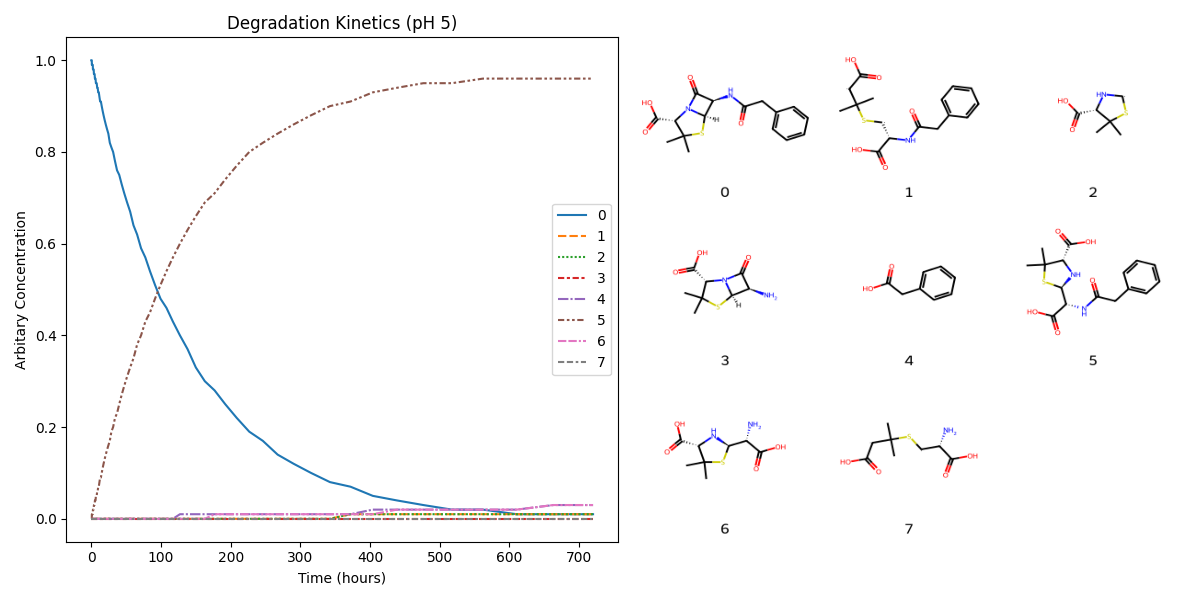
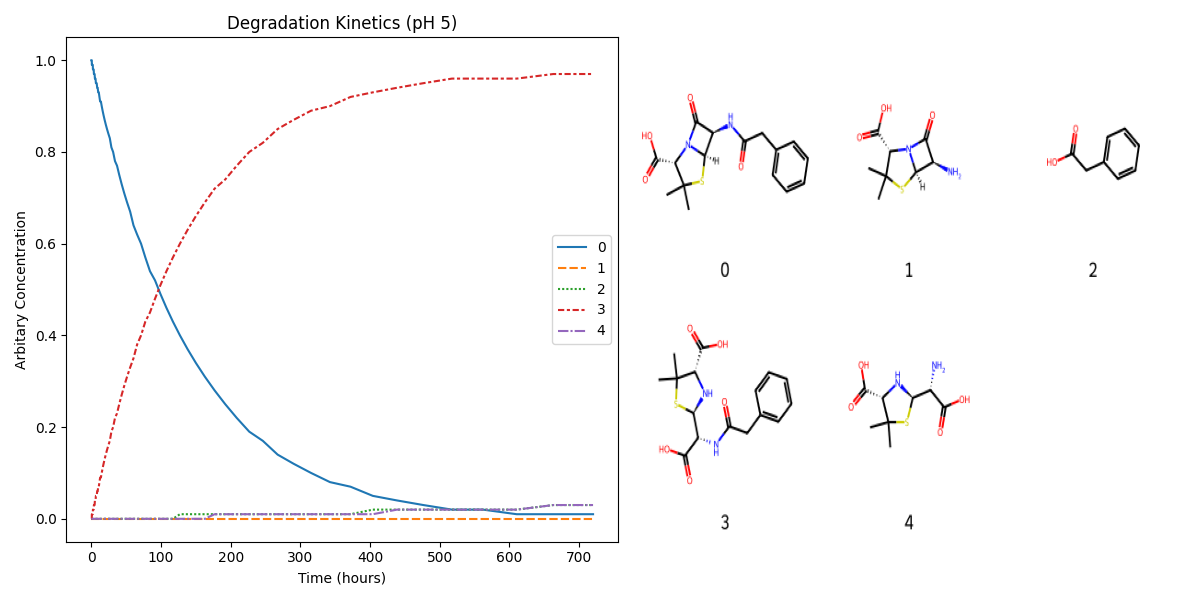
Fix amide bug and sanitisation

diff --git a/src/chem_deg/reactions/hydrolysis/misc.py b/src/chem_deg/reactions/hydrolysis/misc.py
@@ -47,13 +47,15 @@ class AmideHydrolysis(Reaction):
             # [H;C;N] attached to [#7:4] is not specified because that would require an explicit
             # H atom to be present in the SMILES. I tried addingHs to the molecule but that caused
             # issues with other reactions so for now we will leave it out.
-            reaction_smarts="[#6:3][#6:1](=[#8:2])[#7:4]>>[#6:3][#6:1](=[#8:2])[OH].[#7:4]",
+            reaction_smarts="[#6:3][#6:1](=[#8:2])!@[#7:4]>>[#6:3][#6:1](=[#8:2])[OH].[#7:4]",
             examples={
                 # Examples from the EPA
                 "CCNC(=O)[C@@H](C)OC(=O)Nc1ccccc1": "CCN.C[C@@H](OC(=O)Nc1ccccc1)C(=O)O",
                 "C#CC(C)(C)NC(=O)c1cc(Cl)cc(Cl)c1": "C#CC(C)(C)N.O=C(O)c1cc(Cl)cc(Cl)c1",
                 "CCC(=O)Nc1ccc(Cl)c(Cl)c1": "CCC(=O)O.Nc1ccc(Cl)c(Cl)c1",
                 "O=C(NC(=O)c1c(F)cccc1F)Nc1ccc(Cl)cc1": "NC(=O)Nc1ccc(Cl)cc1.O=C(O)c1c(F)cccc1F",
+                # Example to ensure Lactams are not hydrolyzed
+                "C1CC(=O)N1": None,
             },
             halflife5=HALFLIFE1,
             halflife7=HALFLIFE1,

diff --git a/tests/reactions/test_reaction_classes.py b/tests/reactions/test_reaction_classes.py
@@ -2,6 +2,7 @@ from rdkit import Chem
 
 from chem_deg.reactions.reaction_classes import Hydrolysis
 
+
 def test_hydrolysis():
     """
     Test the hydrolysis reactions.
@@ -10,7 +11,14 @@ def test_hydrolysis():
     for reaction in hydrolysis.reactions:
         for reactant, expected_product in reaction.examples.items():
             products = reaction.react(reactant)
-            products = [Chem.MolToSmiles(product) for product in products if product is not None]
+            print(products)
+            if products:
+                # Convert the products to SMILES
+                products = [
+                    Chem.MolToSmiles(product) for product in products if product is not None
+                ]
+            else:
+                products = [None]
 
             assert expected_product in products, (
                 f"Expected {expected_product} in {products} for {reaction.name} reaction"

diff --git a/src/chem_deg/reactions/hydrolysis/ester.py b/src/chem_deg/reactions/hydrolysis/ester.py
@@ -79,9 +79,11 @@ class PhosphorusEsterHydrolysis(Reaction):
         broken_bond = reactant_bonds - product_bonds
 
         if len(broken_bond) != 1:
-            raise ValueError(
-                f"Unable to determine leaving atom. More than one bond broken: {broken_bond}"
+            msg = (
+                f"Unable to determine leaving atom. More than one bond broken: {broken_bond}\n"
+                f"Reactant: {Chem.MolToSmiles(reactant)}\nProduct: {Chem.MolToSmiles(product)}"
             )
+            raise ValueError(msg)
 
         # Determine which atom is the leaving group and which is the Phosphorus atom
         broken_bond = list(broken_bond)[0]

diff --git a/tests/test_degradation.py b/tests/test_degradation.py
@@ -15,14 +15,14 @@ def test_chemical_degradation():
     deg_graph = chemical_degradation(compound=smiles, max_generation=10_000)
 
     # Check if the graph has the expected number of nodes
-    expected_nodes = 8
+    expected_nodes = 5
     num_nodes = len(deg_graph.nodes())
     assert num_nodes == expected_nodes, (
         f"Number of nodes ({num_nodes}) does not match expected number ({expected_nodes})."
     )
 
     # Check if the graph has the expected number of edges
-    expected_edges = 12
+    expected_edges = 6
     edges = [e for e in deg_graph.edges(data=True)]
     num_edges = len(edges)
     assert num_edges == expected_edges, (

diff --git a/src/chem_deg/reactions/base.py b/src/chem_deg/reactions/base.py
@@ -155,7 +155,7 @@ class ReactionClass:
             The cleaned SMILES string.
         """
         mol = Chem.MolFromSmiles(smiles)
-        return Chem.MolToSmiles(mol)
+        return Chem.MolToSmiles(mol) if mol else smiles
 
     def react(
         self, reactant: str, return_mol: bool = False
